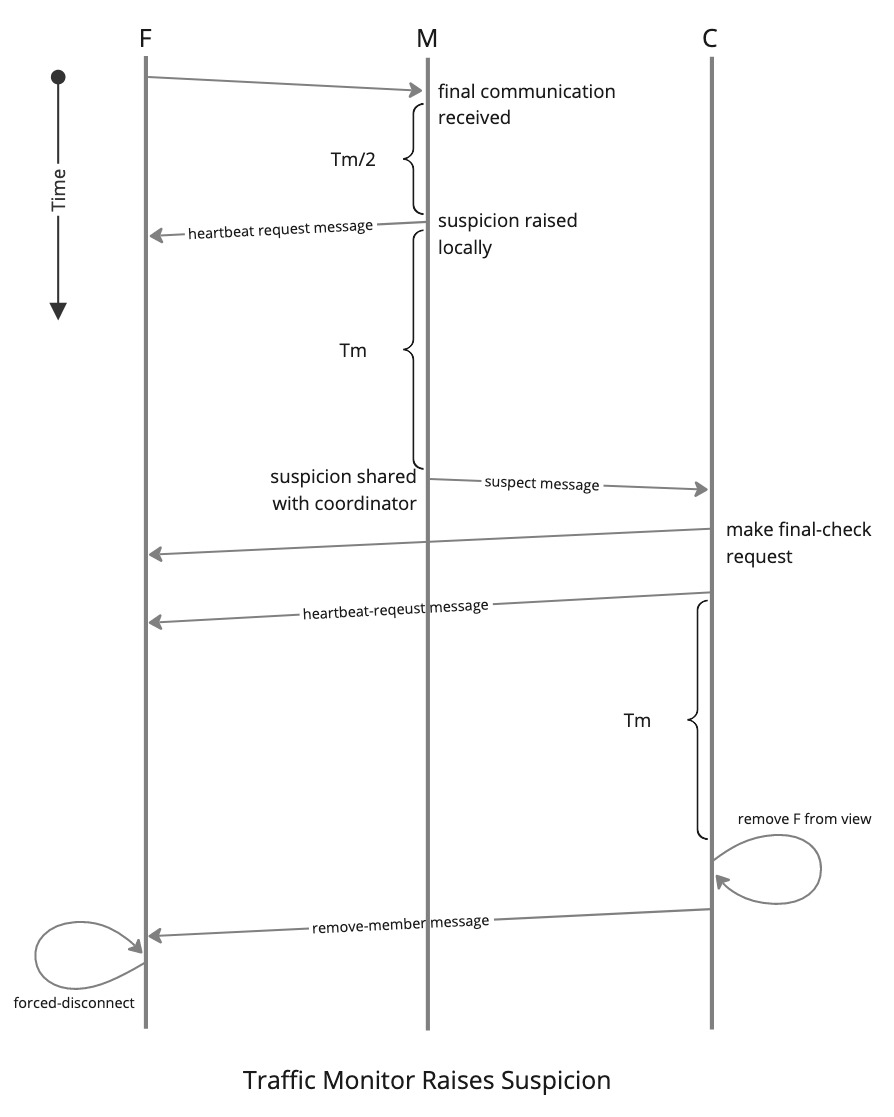
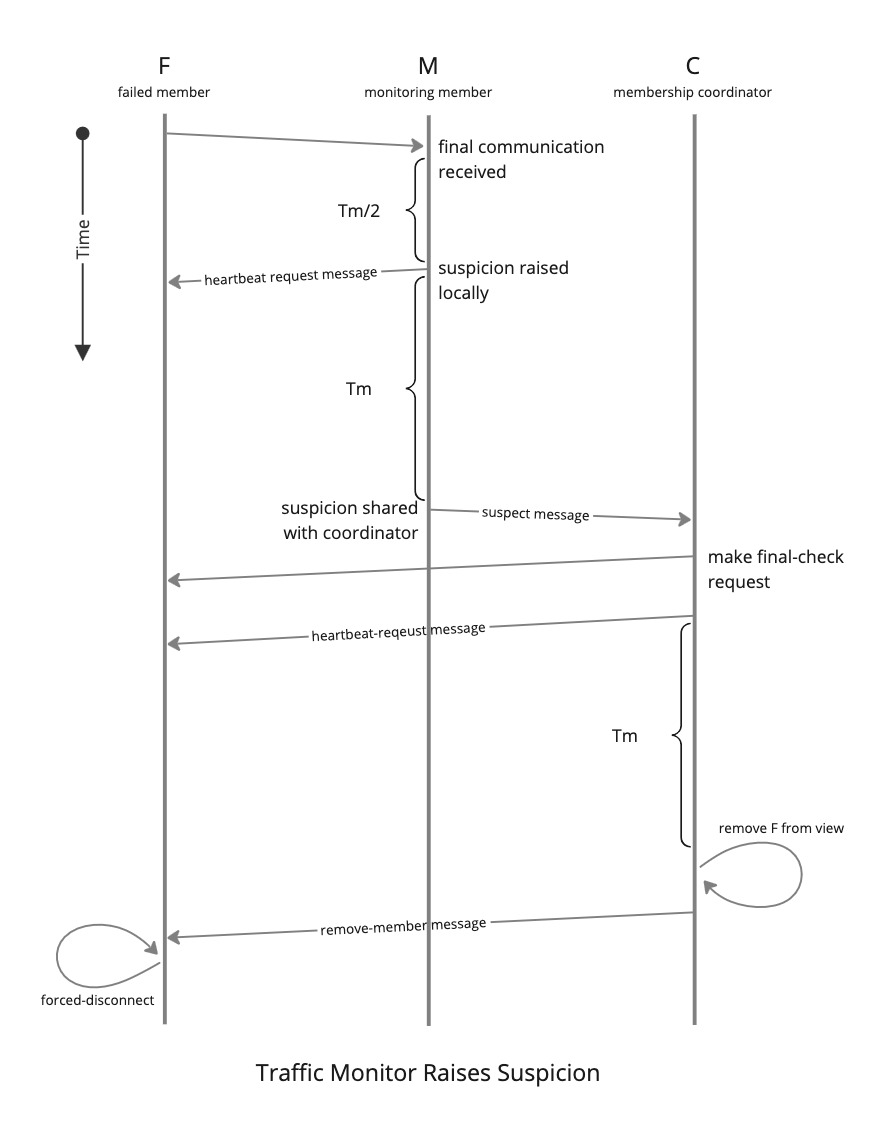
moar PR feedback

diff --git a/content/blog/speak-up-or-be-eliminated/index.md b/content/blog/speak-up-or-be-eliminated/index.md
@@ -86,7 +86,7 @@ In this case, in the first (top) segment on the M line we see that F sent its fi
 
 The first thing that happens after suspicion is raised is that the health monitor running on M sends a heartbeat-request message to F. If F is working properly, this will cause it to immediately send a heartbeat back to M. But if F doesn't do that in time (Tm) then suspicion processing will move to its next phase.
 
-After receiving no communication from F after the "heartbeat-request" message, M sends a "suspect" message to the coordinator, C. Upon receipt of that message, the coordinator does two things. It sends its own heartbeat-request message to F, and it attempts to make a new connection to F on F's dedicated failure detection port. If the new connection attempt fails, or if no response is received to the request on that connection, and no other network communication is received by C from F in time (Tm) then coordinator C deems F failed.
+After receiving no communication from F after the "heartbeat-request" message, M sends a "suspect" message to the coordinator, C. Upon receipt of that message, the coordinator does two things. It sends its own heartbeat-request message to F, and it makes a "final check" request on F. The final check request is made over a new connection to F on F's dedicated failure detection port. If the new connection attempt fails, or if no response is received to the request on that connection, and no other network communication is received by C from F in time (Tm) then coordinator C deems F failed.
 
 When the coordinator C deems member F failed, F is removed from the view. A "remove-member" message is sent to all remaining members and a new view, a view no longer containing member F, is distributed to all the remaining members.
 
